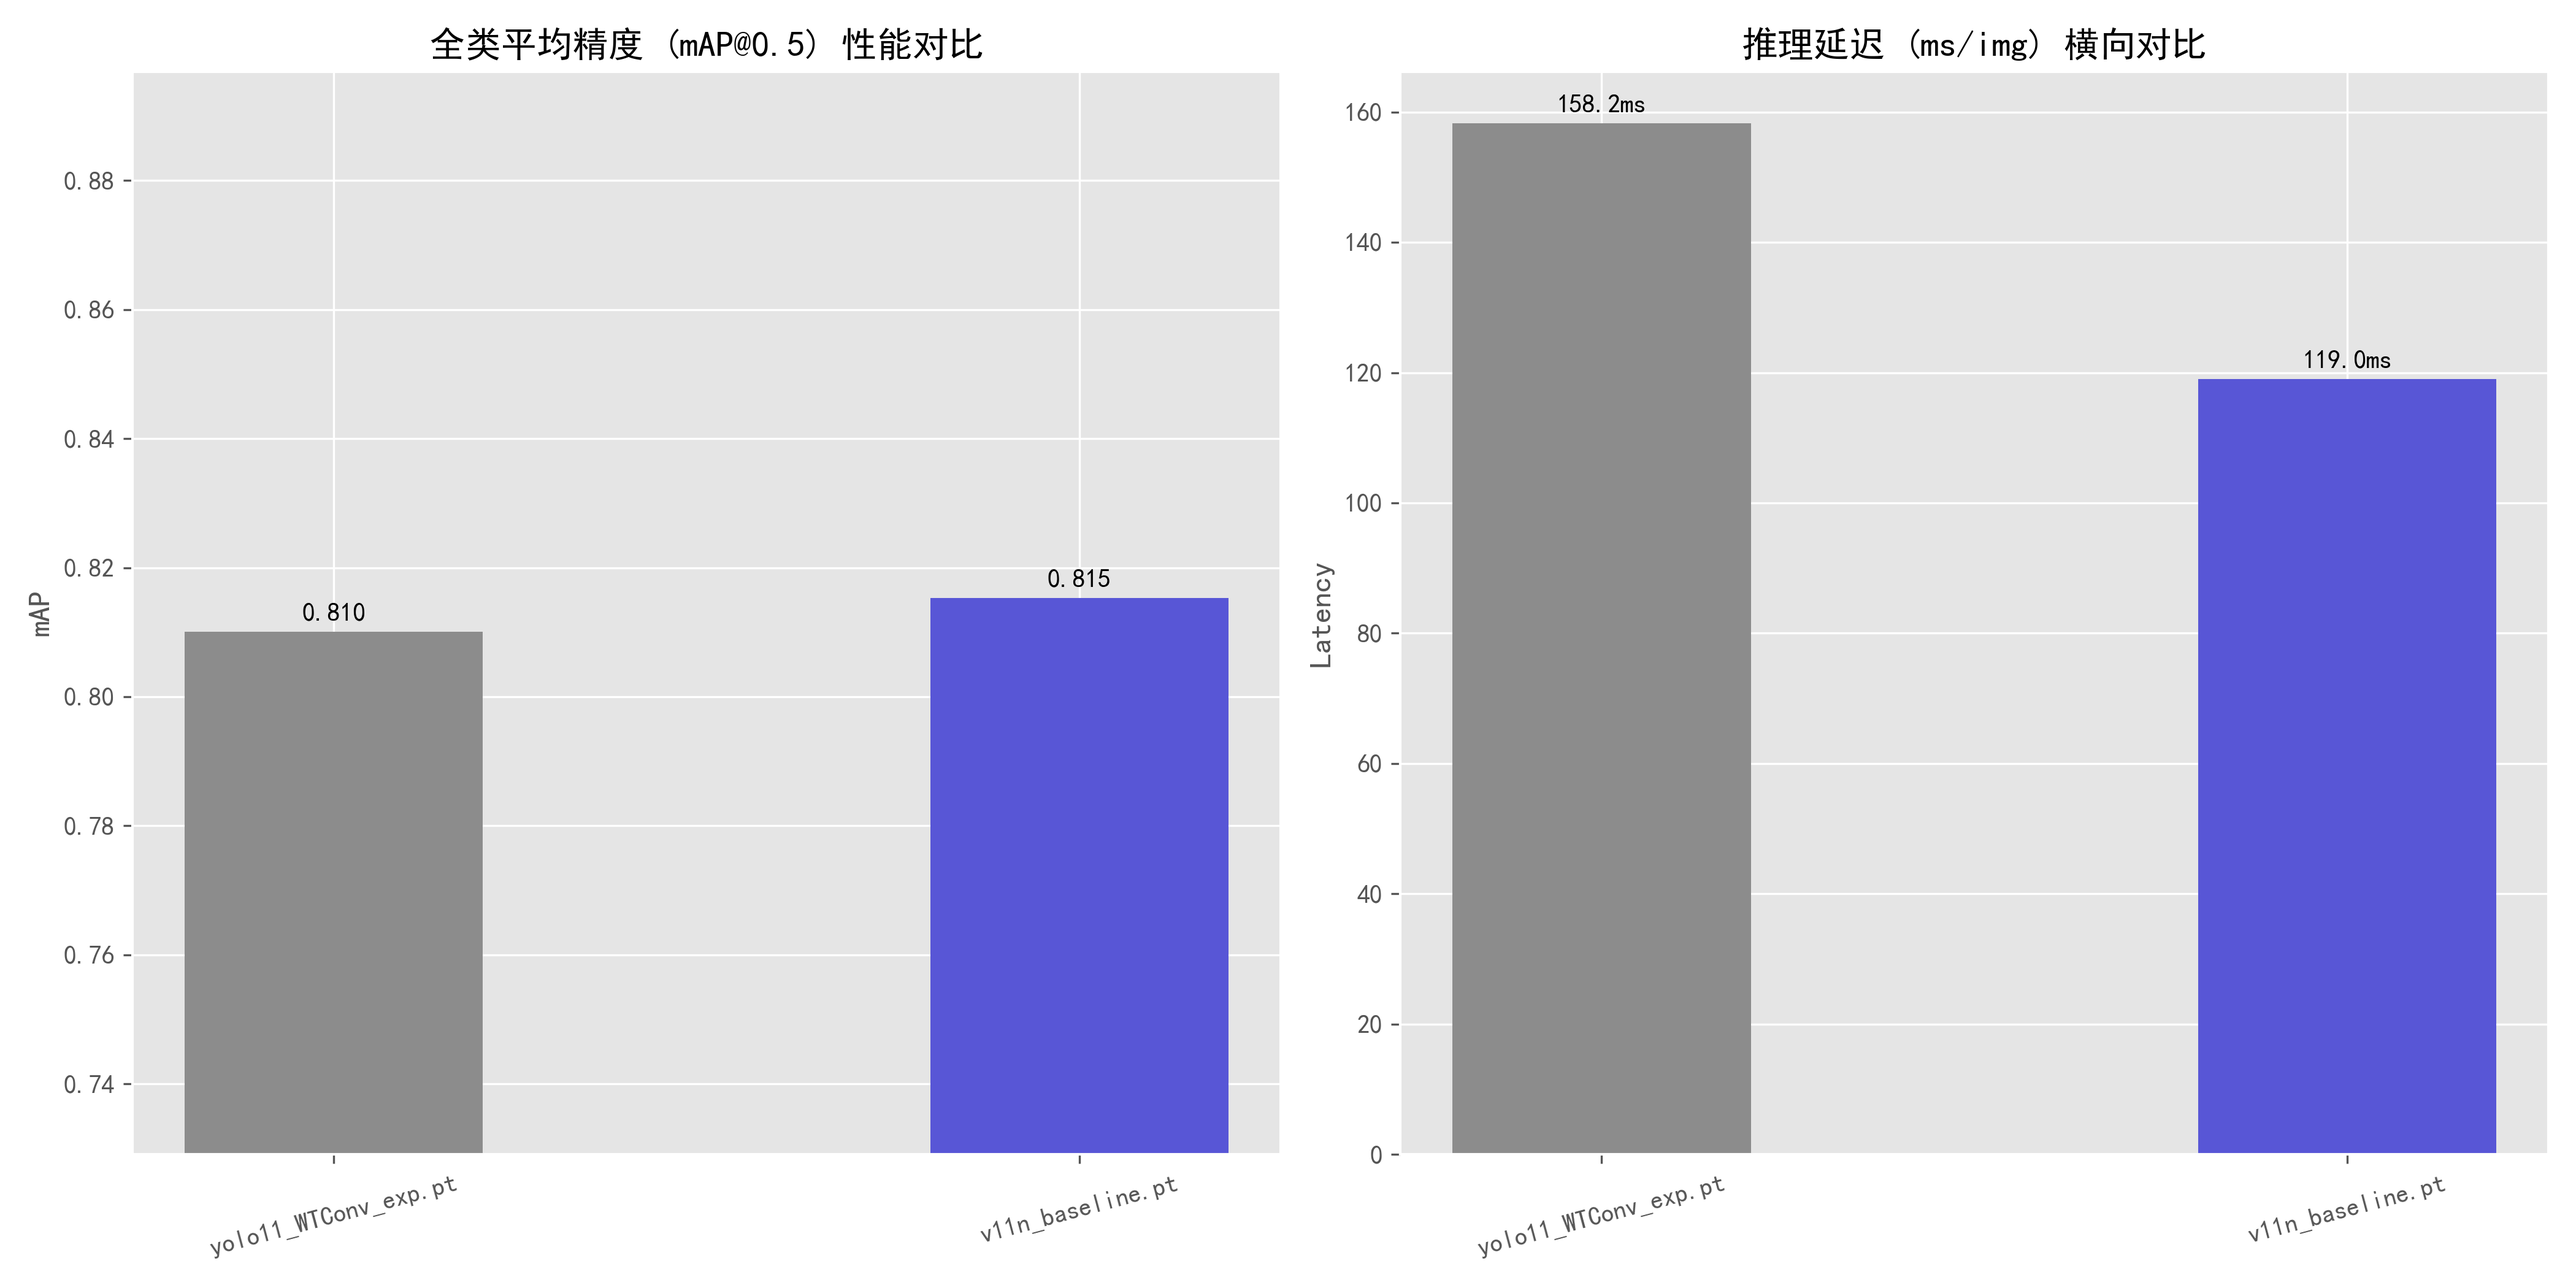
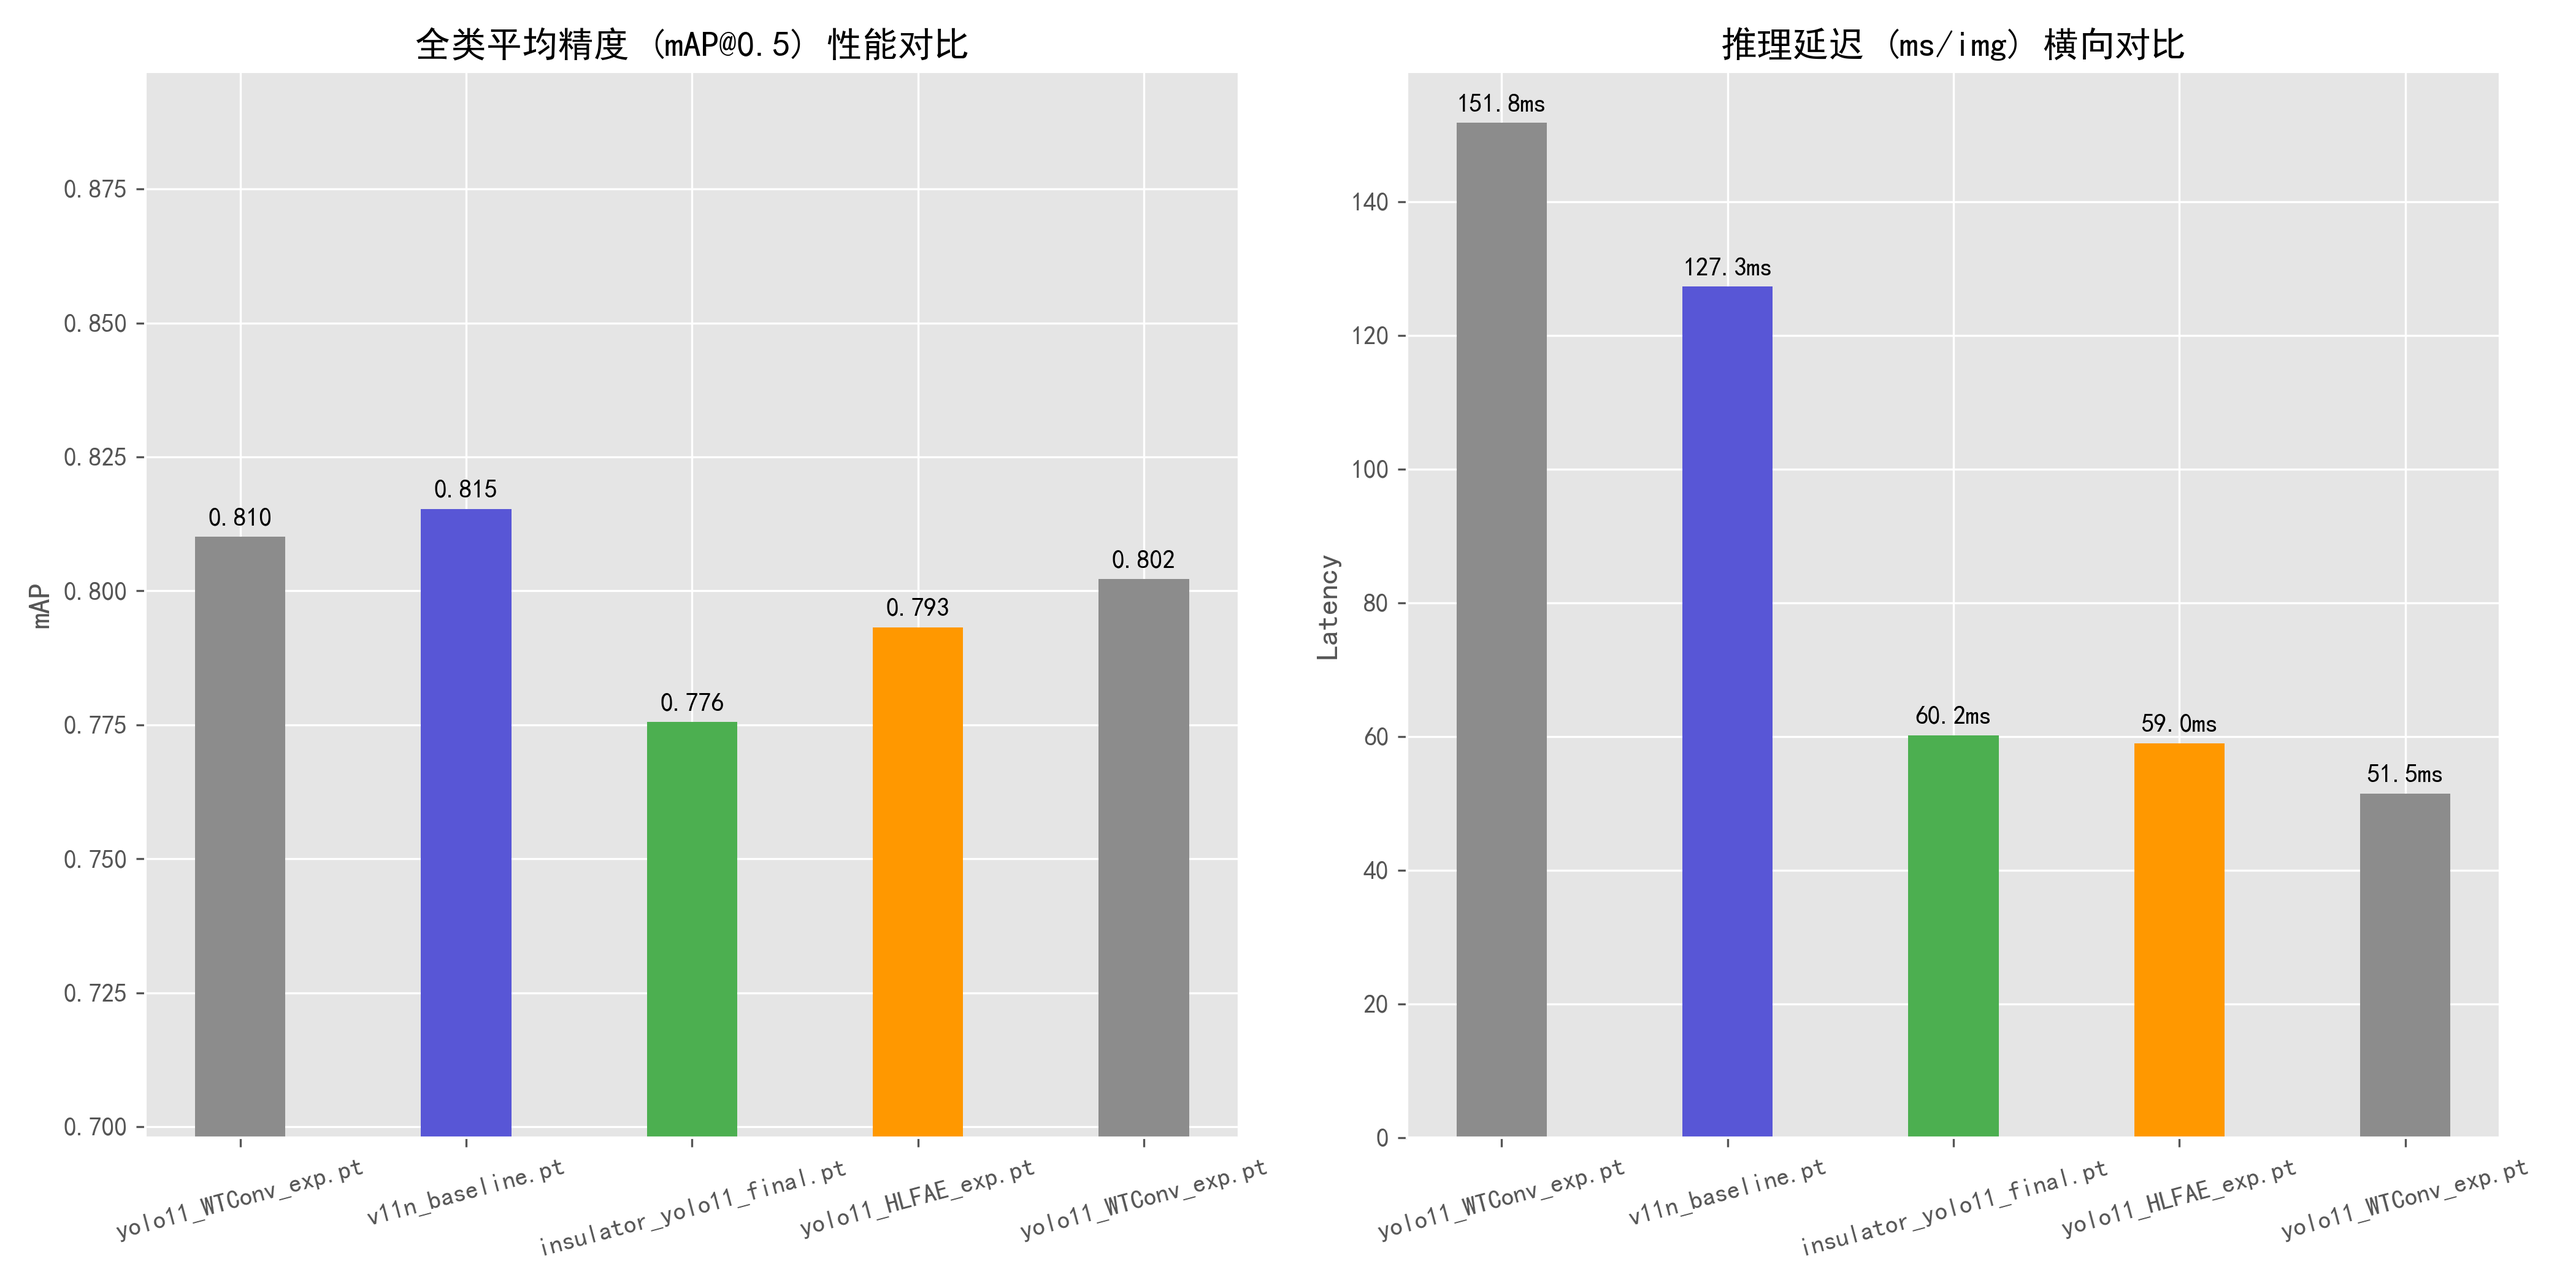
docs: 集成大气雾化数据增强算法，并更新相关分析报告

diff --git a/augment_fog.py b/augment_fog.py
@@ -7,12 +7,28 @@ import shutil
 train_img_dir = r"c:\Develop\BS\Insulator_System_m\datasets\Combined_Insulator\train\images"
 train_lbl_dir = r"c:\Develop\BS\Insulator_System_m\datasets\Combined_Insulator\train\labels"
 
-def add_fog_basic(image):
-    # 随机透明度，控制雾的浓度
-    alpha = random.uniform(0.35, 0.65)
-    # 创建灰白色的雾气图层
-    fog = np.full(image.shape, 210, dtype=np.uint8) 
-    return cv2.addWeighted(image, 1 - alpha, fog, alpha, 0)
+def generate_synthetic_fog(image, t_range=(0.4, 0.8), A_range=(0.7, 0.9)):
+    """
+    基于大气散射模型的绝缘子图像雾化增强算法
+    :param image: 输入的高清图像矩阵 (BGR格式)
+    :param t_range: 透射率随机区间，控制雾的浓淡
+    :param A_range: 大气光强度随机区间
+    """
+    # 随机生成当前图像的透射率 t 和大气光 A
+    t = np.random.uniform(t_range[0], t_range[1])
+    A = np.random.uniform(A_range[0], A_range[1])
+    
+    # 图像归一化至 [0, 1] 以进行浮点运算
+    img_float = image.astype(np.float32) / 255.0
+    
+    # 矩阵向量化运算应用大气散射公式: I(x) = J(x)t + A(1-t)
+    foggy_img = img_float * t + A * (1 - t)
+    
+    # 限制像素范围并还原至 uint8 格式
+    foggy_img = np.clip(foggy_img, 0, 1)
+    foggy_img = (foggy_img * 255).astype(np.uint8)
+    
+    return foggy_img
 
 images = [f for f in os.listdir(train_img_dir) if f.lower().endswith(('.jpg', '.png', '.jpeg'))]
 
@@ -32,7 +48,7 @@ for img_name in images:
     if img is None: continue
     
     # 雾化处理
-    foggy_img = add_fog_basic(img)
+    foggy_img = generate_synthetic_fog(img)
     
     # 写入新图
     new_img_name = "fog_" + img_name

diff --git a/scratch/generate_report_images.py b/scratch/generate_report_images.py
@@ -1,0 +1,38 @@
+import cv2
+import numpy as np
+import os
+import shutil
+
+# 路径设置
+img_dir = r"c:\Develop\BS\Insulator_System_m\datasets\Combined_Insulator\train\images"
+artifact_dir = r"C:\Users\27207\.gemini\antigravity\brain\00bc15cb-3abe-489a-8762-a41bfb66e530\artifacts"
+mosaic_src = r"c:\Develop\BS\Insulator_System_m\runs\train\yolo11_PConv_exp\train_batch0.jpg"
+
+def generate_synthetic_fog(image, t=0.5, A=0.8):
+    img_float = image.astype(np.float32) / 255.0
+    foggy_img = img_float * t + A * (1 - t)
+    foggy_img = np.clip(foggy_img, 0, 1)
+    return (foggy_img * 255).astype(np.uint8)
+
+# 1. 选取一张原始图像
+samples = [f for f in os.listdir(img_dir) if f.endswith('.jpg')]
+if samples:
+    sample_img_path = os.path.join(img_dir, samples[0])
+    # 处理中文路径
+    img = cv2.imdecode(np.fromfile(sample_img_path, dtype=np.uint8), -1)
+    
+    if img is not None:
+        # 保存原始图 (a)
+        cv2.imwrite(os.path.join(artifact_dir, "report_a_clear.jpg"), img)
+        
+        # 生成并保存雾化图 (b)
+        foggy = generate_synthetic_fog(img)
+        cv2.imwrite(os.path.join(artifact_dir, "report_b_foggy.jpg"), foggy)
+        print("Created clear and foggy sample images.")
+
+# 2. 复制 Mosaic 图片 (c)
+if os.path.exists(mosaic_src):
+    shutil.copy2(mosaic_src, os.path.join(artifact_dir, "report_c_mosaic.jpg"))
+    print("Copied mosaic sample image.")
+else:
+    print("Mosaic source not found.")
